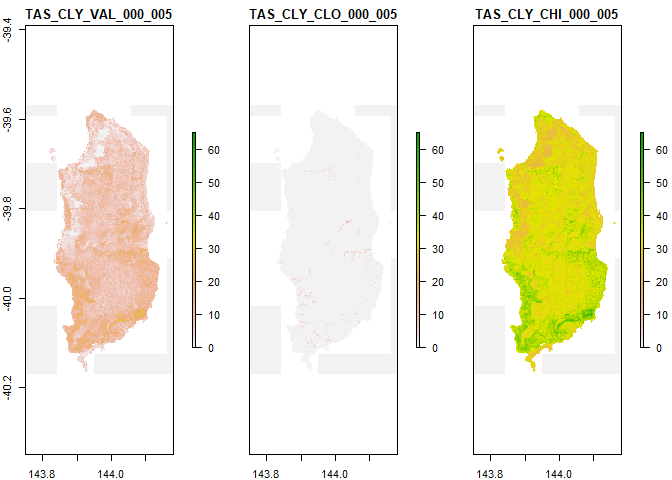
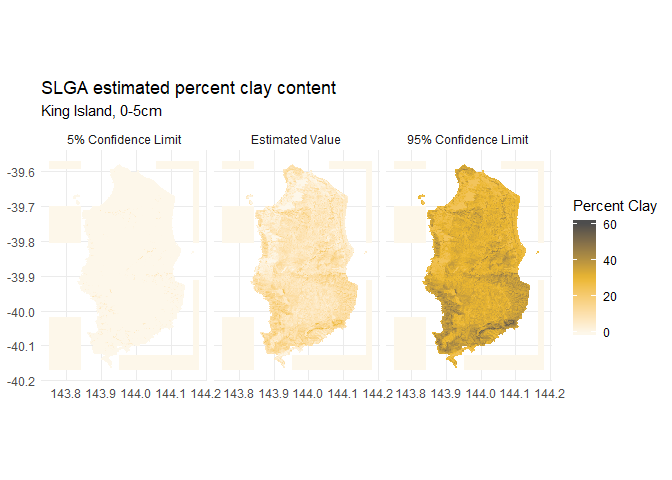
better doco, prettier website

diff --git a/docs/articles/slga.html b/docs/articles/slga.html
@@ -90,12 +90,12 @@
 <span class="co">#&gt; Loading required package: sp</span>
 <span class="kw"><a href="https://www.rdocumentation.org/packages/base/topics/library">library</a></span>(slga)
 <span class="kw"><a href="https://www.rdocumentation.org/packages/base/topics/options">options</a></span>(<span class="dt">stringsAsFactors =</span> <span class="ot">FALSE</span>)</code></pre></div>
-<p>Two high-level wrapper functions, <code><a href="../reference/get_soils_data.html">get_soils_data()</a></code> and <code><a href="../reference/get_lscape_data.html">get_lscape_data()</a></code>, have been provided to manage downloads. To use them correctly, you should be aware of the package datasets <code>slga_attribute_info</code> and <code>slga_product_info</code>. They contain allowable values for some of the function inputs as well as key metadata.</p>
+<p>Two high-level wrapper functions, <code><a href="../reference/get_soils_data.html">get_soils_data()</a></code> and <code><a href="../reference/get_lscape_data.html">get_lscape_data()</a></code>, have been provided to manage downloads. To use them correctly, you should be aware of the package datasets <code><a href="../reference/slga_attribute_info.html">slga_attribute_info()</a></code> and <code><a href="../reference/slga_product_info.html">slga_product_info()</a></code>. They contain allowable values for some of the function inputs as well as key metadata.</p>
 <p>The two tables are derived from information on the <a href="http://www.clw.csiro.au/aclep/soilandlandscapegrid/index.html">SLGA website</a> and in the WCS metadata documents.</p>
 <div id="soils-data" class="section level2">
 <h2 class="hasAnchor">
 <a href="#soils-data" class="anchor"></a>Soils data</h2>
-<p>Soils data is available in a large number of combinations - each product has a set of available attributes (soil properties). Not all soil attributes are available within each product, but you can check which ones are available in <code>slga_attribute_info</code>. Each soil attribute has six depth slices ranging from the land surface to 2m depth. Each soil attribute also has three layers - the estimated value, plus its lower and upper confidence limits. Detailed metadata for each product can be found on the <a href="https://data.csiro.au/dap/home?execution=e3s1">CSIRO Data Access Portal</a></p>
+<p>Soils data is available in a large number of combinations - each product has a set of available attributes (soil properties). Not all soil attributes are available within each product, but you can check which ones are available in <code><a href="../reference/slga_attribute_info.html">slga_attribute_info()</a></code>. Each soil attribute has six depth slices ranging from the land surface to 2m depth. Each soil attribute also has three layers - the estimated value, plus its lower and upper confidence limits. Detailed metadata for each product can be found on the <a href="https://data.csiro.au/dap/home?execution=e3s1">CSIRO Data Access Portal</a></p>
 <p>The function <code><a href="../reference/get_soils_data.html">get_soils_data()</a></code> is capable of pulling out data for one combination of product, soil attribute, and depth. It gives the option of returning any combination of value and confidence interval layers, either as a <code>raster</code> or <code>rasterStack</code> object.</p>
 <p>As a demonstration, the surface (0-5 cm) percentage clay content for King Island is available with <code><a href="https://www.rdocumentation.org/packages/utils/topics/data">data('ki_surface_clay')</a></code>:</p>
 <div class="sourceCode"><pre class="sourceCode r"><code class="sourceCode r"><span class="kw"><a href="https://www.rdocumentation.org/packages/utils/topics/data">data</a></span>(<span class="st">'ki_surface_clay'</span>)
@@ -108,7 +108,9 @@ ki_surface_clay
 <span class="co">#&gt; names       : TAS_CLY_VAL_000_005, TAS_CLY_CLO_000_005, TAS_CLY_CHI_000_005 </span>
 <span class="co">#&gt; min values  :                   0,                   0,                   0 </span>
 <span class="co">#&gt; max values  :            32.45988,            11.47951,            60.94624</span></code></pre></div>
-<p><img src="slga_files/figure-html/kic_plot-1.png" width="768" style="display: block; margin: auto;"></p>
+<div class="figure">
+<img src="clayplot.png" style="width:95.0%">
+</div>
 <p>Note that some offshore areas have 0 values rather than NA; these are difficult to remove safely without an adequate coastline mask. You may need to generate one yourself if you are working along the coast.</p>
 <p>The query to retrieve the above maps looked like:</p>
 <div class="sourceCode"><pre class="sourceCode r"><code class="sourceCode r">aoi &lt;-<span class="st"> </span><span class="kw"><a href="https://www.rdocumentation.org/packages/base/topics/c">c</a></span>(<span class="fl">143.75</span>, <span class="op">-</span><span class="fl">40.17</span>, <span class="fl">144.18</span>, <span class="op">-</span><span class="fl">39.57</span>)

diff --git a/docs/index.html b/docs/index.html
@@ -77,10 +77,11 @@
     
     
 
+<p><a href="https://obrl-soil.github.io/slga"><img src="reference/figures/slga_img.png" alt="cover_image"></a></p>
 <div id="slga" class="section level1">
 <div class="page-header"><h1 class="hasAnchor">
 <a href="#slga" class="anchor"></a>slga</h1></div>
-<p>slga offers the ability to download geographic subsets of raster data from the <a href="www.clw.csiro.au/aclep/soilandlandscapegrid/">Soil and Landscape Grid of Australia</a>. The Grid was generated in 2014 from a compilation of Australian soil and landscape data and contains a set of modelled soil attributes that meet the <a href="http://globalsoilmap.net/">globalsoilmap.net</a> specification.</p>
+<p><code>slga</code> offers the ability to download geographic subsets of raster data from the <a href="www.clw.csiro.au/aclep/soilandlandscapegrid/">Soil and Landscape Grid of Australia</a>. The Grid was generated in 2014 from a compilation of Australian soil and landscape data and contains a set of modelled soil attributes that meet the <a href="http://globalsoilmap.net/">globalsoilmap.net</a> specification.</p>
 <p>Also available for download are a set of terrain and climate covariates considered useful in soils modelling. These are primarily derived from <a href="http://www.ga.gov.au/">GeoScience Australia’s</a> <a href="http://www.ga.gov.au/scientific-topics/national-location-information/digital-elevation-data">SRTM DEM products</a>.</p>
 <p>All products are returned in GDA94 long/lat (EPSG:4283) and have a cell resolution of 3" (roughly 90m).</p>
 <div id="getting-started" class="section level2">
@@ -89,7 +90,12 @@
 <p>Install from github with</p>
 <div class="sourceCode"><pre class="sourceCode r"><code class="sourceCode r">devtools<span class="op">::</span><span class="kw"><a href="https://www.rdocumentation.org/packages/devtools/topics/reexports">install_github</a></span>(<span class="st">"obrl-soil/slga"</span>)</code></pre></div>
 <p>then read the package vignette.</p>
+<div id="asking-for-help" class="section level3">
+<h3 class="hasAnchor">
+<a href="#asking-for-help" class="anchor"></a>Asking for help</h3>
+<p>If you get stuck using this package or the data it provides, please post a question on <a href="https://stackoverflow.com/">Stack Overflow</a> (for internet connectivity problems) or the <a href="https://gis.stackexchange.com/">GIS StackExchange</a> (for raster/geospatial issues). This means that others can benefit from the discussion, and more people are available to help you. You’re welcome to ping me in a comment on those websites or on twitter (<span class="citation">@obrl_soil</span>) to get my attention.</p>
 <hr>
+</div>
 </div>
 </div>
   </div>

diff --git a/docs/reference/metadata_soils.html b/docs/reference/metadata_soils.html
@@ -167,11 +167,6 @@ endpoints in XML or list format.</p>
 
     <p>A list or xml document object, depending on the value of 'format'.</p>
     
-    <h2 class="hasAnchor" id="note"><a class="anchor" href="#note"></a>Note</h2>
-
-    <p>WCS services &lt; v 2.0 can only return XML formatted data; JSON is not an
-  option.</p>
-    
 
   </div>
   <div class="col-md-3 hidden-xs hidden-sm" id="sidebar">
@@ -180,8 +175,6 @@ endpoints in XML or list format.</p>
       <li><a href="#arguments">Arguments</a></li>
       
       <li><a href="#value">Value</a></li>
-
-      <li><a href="#note">Note</a></li>
           </ul>
 
   </div>

diff --git a/docs/reference/metadata_lscape.html b/docs/reference/metadata_lscape.html
@@ -147,12 +147,8 @@ endpoints in XML or list format.</p>
     
     <h2 class="hasAnchor" id="note"><a class="anchor" href="#note"></a>Note</h2>
 
-    <ul>
-<li><p>WCS services &lt; v 2.0 can only return XML formatted data; JSON is not an
-  option.</p></li>
-<li><p>Parameter `product` is optional for `req_type = 'desc'`, leave out to
-  get metadata for all available landscape products.</p></li>
-</ul>
+    <p>Parameter `product` is optional for `req_type = 'desc'`, leave out to
+  get metadata for all available landscape products.</p>
     
 
   </div>

diff --git a/docs/reference/get_soils_data.html b/docs/reference/get_soils_data.html
@@ -181,6 +181,8 @@ working directory as a GeoTiff.</p></td>
   GeoTIFF from the CSIRO Data Access Portal and crop out your AOI using GDAL.</p></li>
 <li><p>Output rasters are aligned to the parent dataset rather than the aoi.
   Further resampling may be required for some applications.</p></li>
+<li><p>specify `depth = 1` for attributes 'DES' and 'DER' as they are
+  whole-of-profile parameters.</p></li>
 </ul>
     
 

diff --git a/README.md b/README.md
@@ -23,7 +23,7 @@ devtools::install_github("obrl-soil/slga")
 How it works
 ------------
 
-slga uses the WCS endpoints provided by the SLGA to access data. The package endeavours to return requested products as simple subsets of the parent dataset, with no hidden server-side resampling.
+`slga` uses the WCS endpoints provided by the SLGA to access data. The package endeavours to return requested products as simple subsets of the parent dataset, with no hidden server-side resampling.
 
 Example
 -------
@@ -32,6 +32,7 @@ Example
 library(raster)
 #> Loading required package: sp
 library(slga)
+library(ggplot2)
 ```
 
 ``` r
